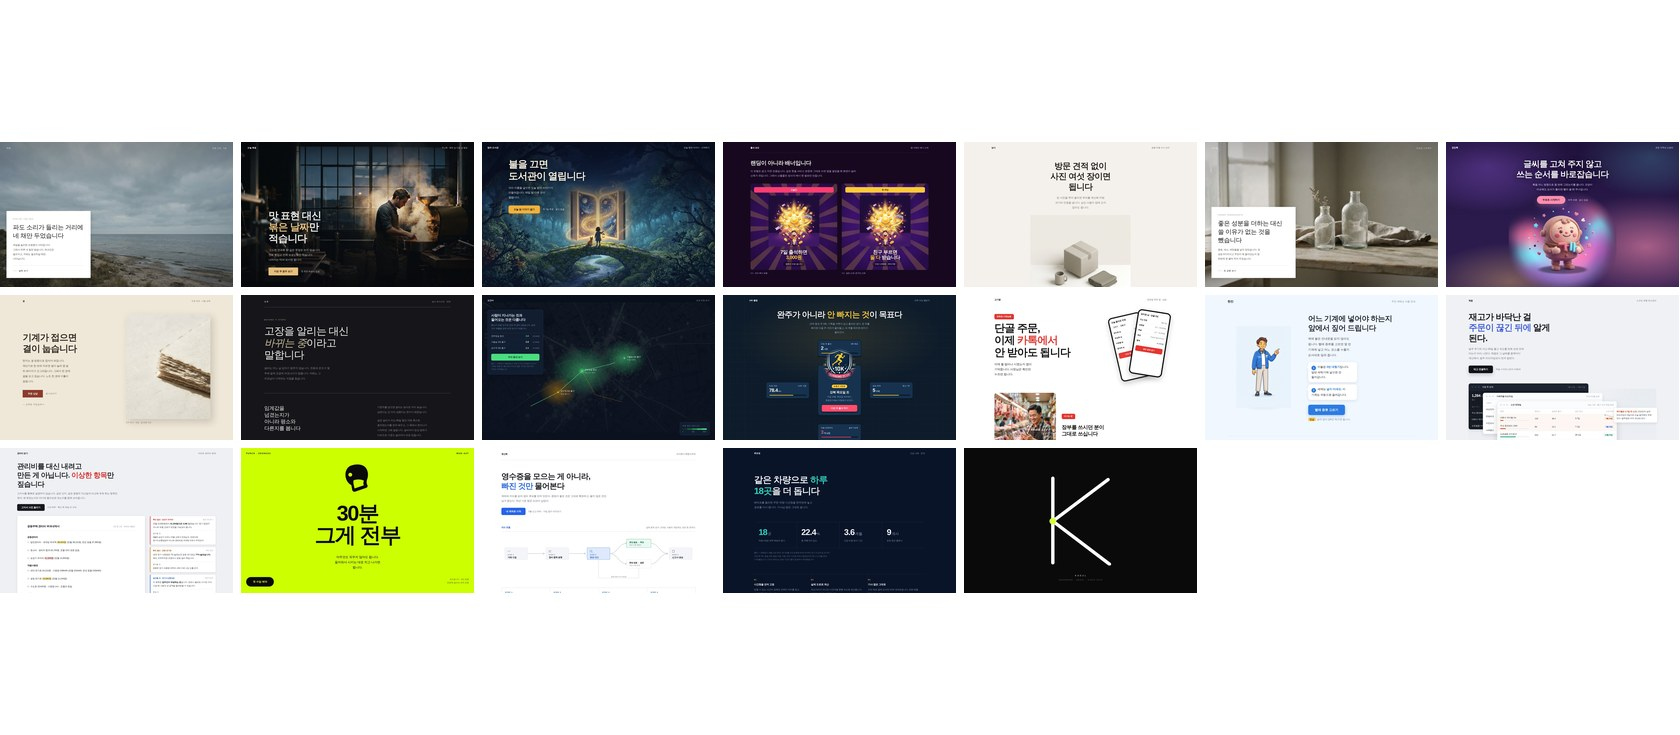
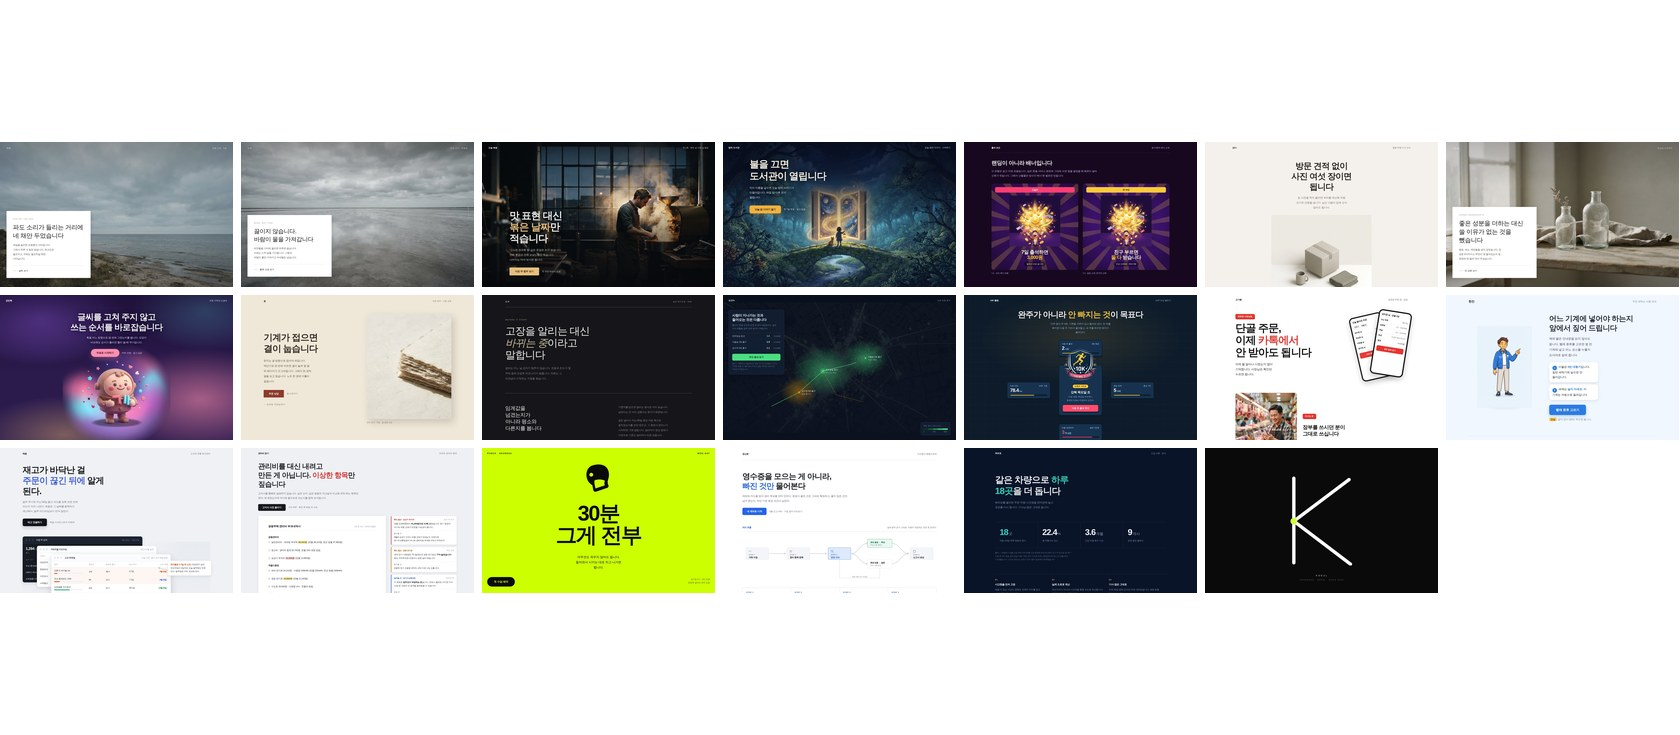
07 / SYSTEM — 스민 3컷 추가(20벌) + 레퍼런스 수 정정 (#11)
1) 세 컷이 이어지는 T24 예시 추가 — 스민(신안 천일염)
   사진 세 장이 스크롤에 맞춰 한 화면씩 걸리며 넘어간다.
   T24 의 layout 이 이미 "스크롤하면 카드가 섹션 단위로 반복된다" 라
   이 유형이 맞다. 자동 전환 슬라이드쇼로 만들지 않은 것은
   motion.avoid 에 "사진 필터 전환" 이 있어서다.
   컷마다 카메라를 다르게 움직인다 — 줌인 / 좌에서 우로 훑기 / 느린 드리프트.
   카드 자리도 좌하·우하·좌중으로 옮겨 같은 곳에 반복되지 않게 했다.
   받은 사진 채도는 4.9% / 7.1% / 8.7% 로 저채도 규정을 만족한다.

2) 레퍼런스 수를 833 → 1,538 로 고쳤다
   기업 코퍼스 705건이 들어와 833(AI 서비스) + 705(기업) 이 됐다.
   실제 data/references.json 을 세어 확인했다.

3) 같은 자리에 "23가지 스타일" 이 남아 있던 것을 25로 고쳤다
   앞선 수정에서 문장이 두 줄로 나뉘어 있어 치환이 빗나갔고,
   그대로 배포돼 있었다. 이번에는 페이지에 적힌 수를 실제 데이터와
   하나씩 대조했다 — 유형 25, 레퍼런스 1538, 지면 8, 예시 20 전부 일치.

4) 서비스명 20건을 1,538건 전체에 다시 대조했다
   앞서 바꾼 5건은 833건 기준으로만 봤던 것이라 다시 봤다.
   실질 충돌 0건. "10K 클럽" 이 "K-클럽[공공·지원]" 에 부분일치로
   걸리지만 10K 는 달리기 거리를 뜻하는 보통명사이고 분야가 달라 남겼다.

검증 — 빌드 통과, JS 에러 0, 안 뜬 이미지 0, 가로 넘침 없음.

Claude-Session: https://claude.ai/code/session_01HZ2ccqveZ9fPxdjPEzqgGf

diff --git a/app/work/design-system/page.tsx b/app/work/design-system/page.tsx
@@ -104,6 +104,14 @@ const GROUPS: { layers: string; head: string; lede: string; items: Sample[] }[] 
           did: "바로 위와 규칙이 똑같습니다. 사진만 바닷가 풍경에서 창가 정물로 바꿨습니다. 스타일을 정해 두면 업종이 달라져도 같은 품질로 나온다는 것이 이 두 장의 요점입니다.",
         },
         {
+          id: "T24",
+          name: "세 컷이 이어지는 화면",
+          img: "/img/ds-t24c.jpg",
+          subject: "스민 — 신안 천일염",
+          rule: "사진 한 컷 → 카드 한 장 → 사진 한 컷 · 카드는 언제나 한 장 · 자동 전환 금지",
+          did: "사진 세 장이 스크롤에 맞춰 한 화면씩 딱 걸리며 넘어갑니다. 자동으로 넘기는 슬라이드쇼는 이 스타일에서 금지라, 보는 사람이 속도를 정하게 했습니다. 읽기도 전에 다음으로 넘어가는 답답함이 없습니다. 카메라 움직임을 컷마다 다르게 줬습니다 — 넓은 염전은 천천히 다가가고, 결정이 서는 바닥은 왼쪽에서 오른쪽으로 훑고, 창고는 아주 느리게 흐릅니다. 카드 자리도 좌하·우하·좌중으로 옮겨 같은 곳에 반복되지 않게 했습니다.",
+        },
+        {
           id: "T16",
           name: "손맛 나는 질감",
           img: "/img/ds-t16.jpg",
@@ -204,9 +212,9 @@ const GROUPS: { layers: string; head: string; lede: string; items: Sample[] }[] 
 
 const FACTS = [
   { n: "25", u: "가지 스타일", d: "스타일마다 쓸 색, 요소를 놓을 자리, 그림자 세기, 사진 쓰는 법이 숫자로 정해져 있습니다" },
-  { n: "833", u: "곳 분석", d: "전부 다른 서비스입니다. 화면을 하나씩 직접 보고 분류했습니다" },
+  { n: "1,538", u: "곳 분석", d: "AI 서비스 833곳과 기업 사이트 705곳. 화면을 하나씩 직접 보고 분류했습니다" },
   { n: "8", u: "가지 지면", d: "홈페이지 · 상세페이지 · 앱 · 관리자 화면 · 제안서 · 썸네일 · SNS · 대표 이미지" },
-  { n: "19", u: "벌 제작", d: "아래가 같은 시스템에서 스타일만 바꿔 만든 결과입니다" },
+  { n: "20", u: "벌 제작", d: "아래가 같은 시스템에서 스타일만 바꿔 만든 결과입니다" },
 ];
 
 function GroupBlock({ g }: { g: (typeof GROUPS)[number] }) {
@@ -380,8 +388,9 @@ export default function DesignSystemPage() {
           >
             디자인은 보통 “이번엔 어떤 느낌으로 갈까”부터 시작합니다. 그러면
             결과가 그날 컨디션에 따라 달라지고, 왜 이렇게 만들었는지 설명하기도
-            어렵습니다. 그래서 실제로 운영 중인 서비스 833곳의 화면을 직접 보고
-            23가지 스타일로 나눈 뒤, 스타일마다 색·배치·그림자·사진 쓰는 법을
+            어렵습니다. 그래서 실제로 운영 중인 서비스와 기업 사이트 1,538곳의
+            화면을 직접 보고 25가지 스타일로 나눈 뒤, 스타일마다 색·배치·그림자·
+            사진 쓰는 법을
             숫자로 정해 뒀습니다. 작업을 시작하기 전에 스타일을 먼저 정하고,
             끝나면 그대로 지켰는지 다시 검사합니다.
           </p>
@@ -442,11 +451,11 @@ export default function DesignSystemPage() {
             },
             {
               label: "한 일",
-              text: "실제로 운영 중인 서비스 833곳을 화면으로 하나씩 열어 보며 분류했습니다. 설명만 읽고 분류하면 기록이 틀어지기 때문입니다. 스타일마다 쓸 색, 요소를 놓을 자리, 그림자 세기, 사진 찍는 법, 그리고 하면 안 되는 것까지 숫자와 문장으로 적어 뒀습니다.",
+              text: "실제로 운영 중인 서비스와 기업 사이트 1,538곳을 화면으로 하나씩 열어 보며 분류했습니다. 설명만 읽고 분류하면 기록이 틀어지기 때문입니다. 스타일마다 쓸 색, 요소를 놓을 자리, 그림자 세기, 사진 찍는 법, 그리고 하면 안 되는 것까지 숫자와 문장으로 적어 뒀습니다.",
             },
             {
               label: "결과",
-              text: "스타일을 정하면 그 규칙대로 화면이 나옵니다. 아래 19벌은 전부 같은 시스템에서 스타일만 바꿔 만든 것입니다. 색만 바꾼 것이 아니라 깊이감, 그림자 세기, 여백 비율, 사진 쓰는 법이 전부 다릅니다.",
+              text: "스타일을 정하면 그 규칙대로 화면이 나옵니다. 아래 20벌은 전부 같은 시스템에서 스타일만 바꿔 만든 것입니다. 색만 바꾼 것이 아니라 깊이감, 그림자 세기, 여백 비율, 사진 쓰는 법이 전부 다릅니다.",
             },
           ]}
         />
@@ -481,7 +490,7 @@ export default function DesignSystemPage() {
                   maxWidth: 640,
                 }}
               >
-                아래 19벌을 <strong>화면에 깊이를 얼마나 줄 수 있는지</strong>로
+                아래 20벌을 <strong>화면에 깊이를 얼마나 줄 수 있는지</strong>로
                 묶었습니다. 제 취향대로 고른 순서가 아니라 각 스타일의 규칙이
                 정한 순서입니다.
               </p>

diff --git a/app/page.tsx b/app/page.tsx
@@ -733,7 +733,7 @@ export default function Home() {
             href="/work/design-system"
             label="07 / SYSTEM"
             title="웹디자인 스타일 시스템"
-            desc="실제 서비스 833곳의 화면을 보고 25가지 스타일로 나눈 뒤, 스타일마다 색·배치·그림자를 숫자로 정해 둔 자체 도구. 아래는 같은 시스템에서 스타일만 바꿔 만든 19벌"
+            desc="실제 서비스와 기업 사이트 1,538곳의 화면을 보고 25가지 스타일로 나눈 뒤, 스타일마다 색·배치·그림자를 숫자로 정해 둔 자체 도구. 아래는 같은 시스템에서 스타일만 바꿔 만든 20벌"
             image={
               <img
                 src="/img/ds-strip.jpg"
